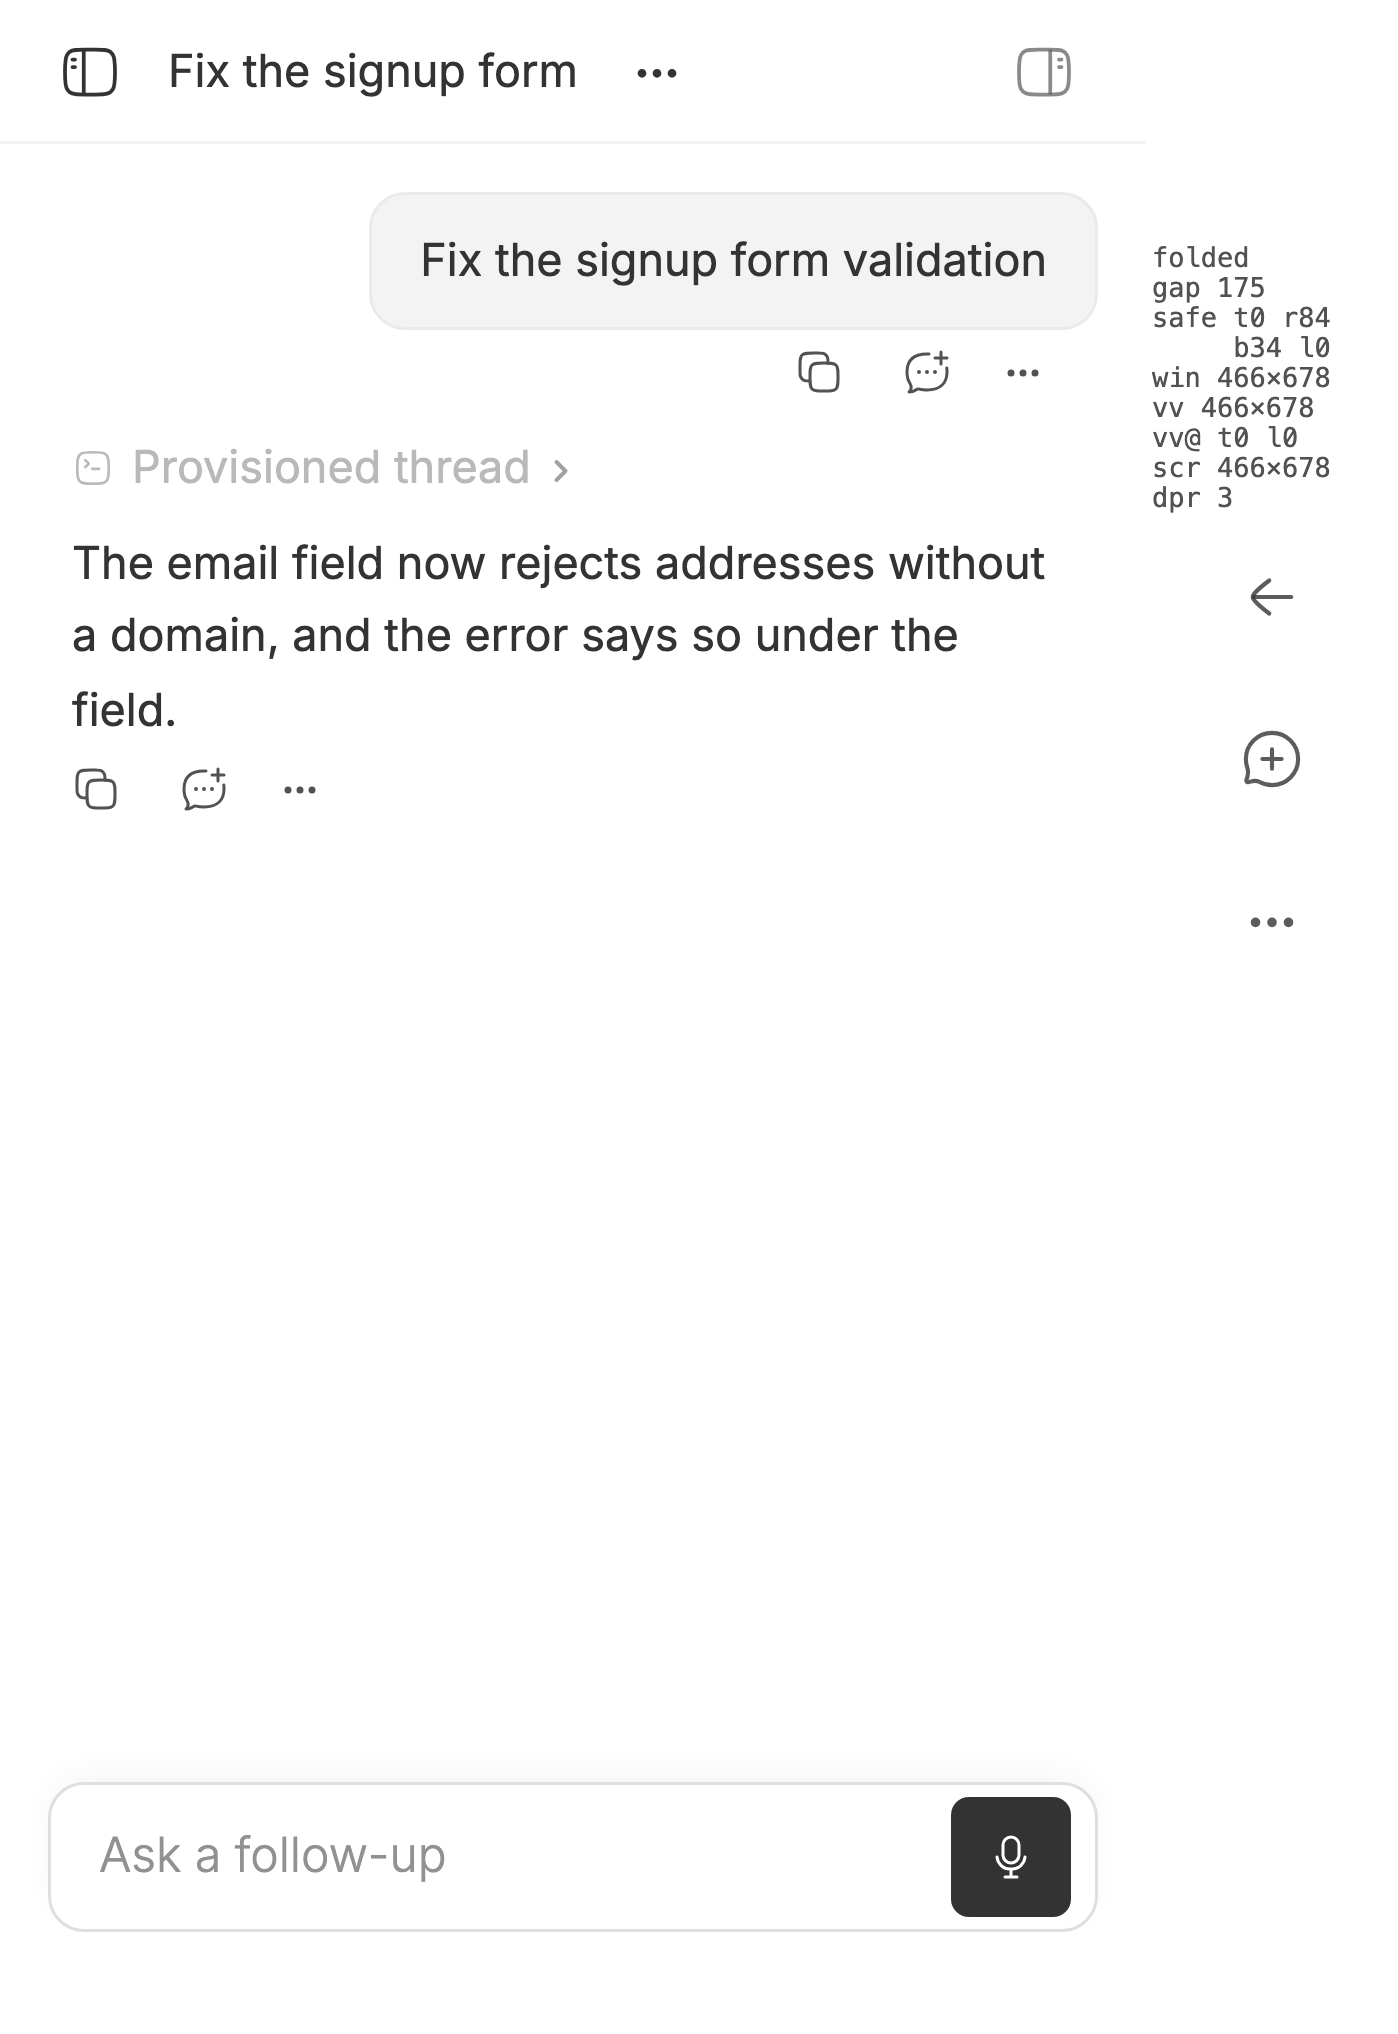
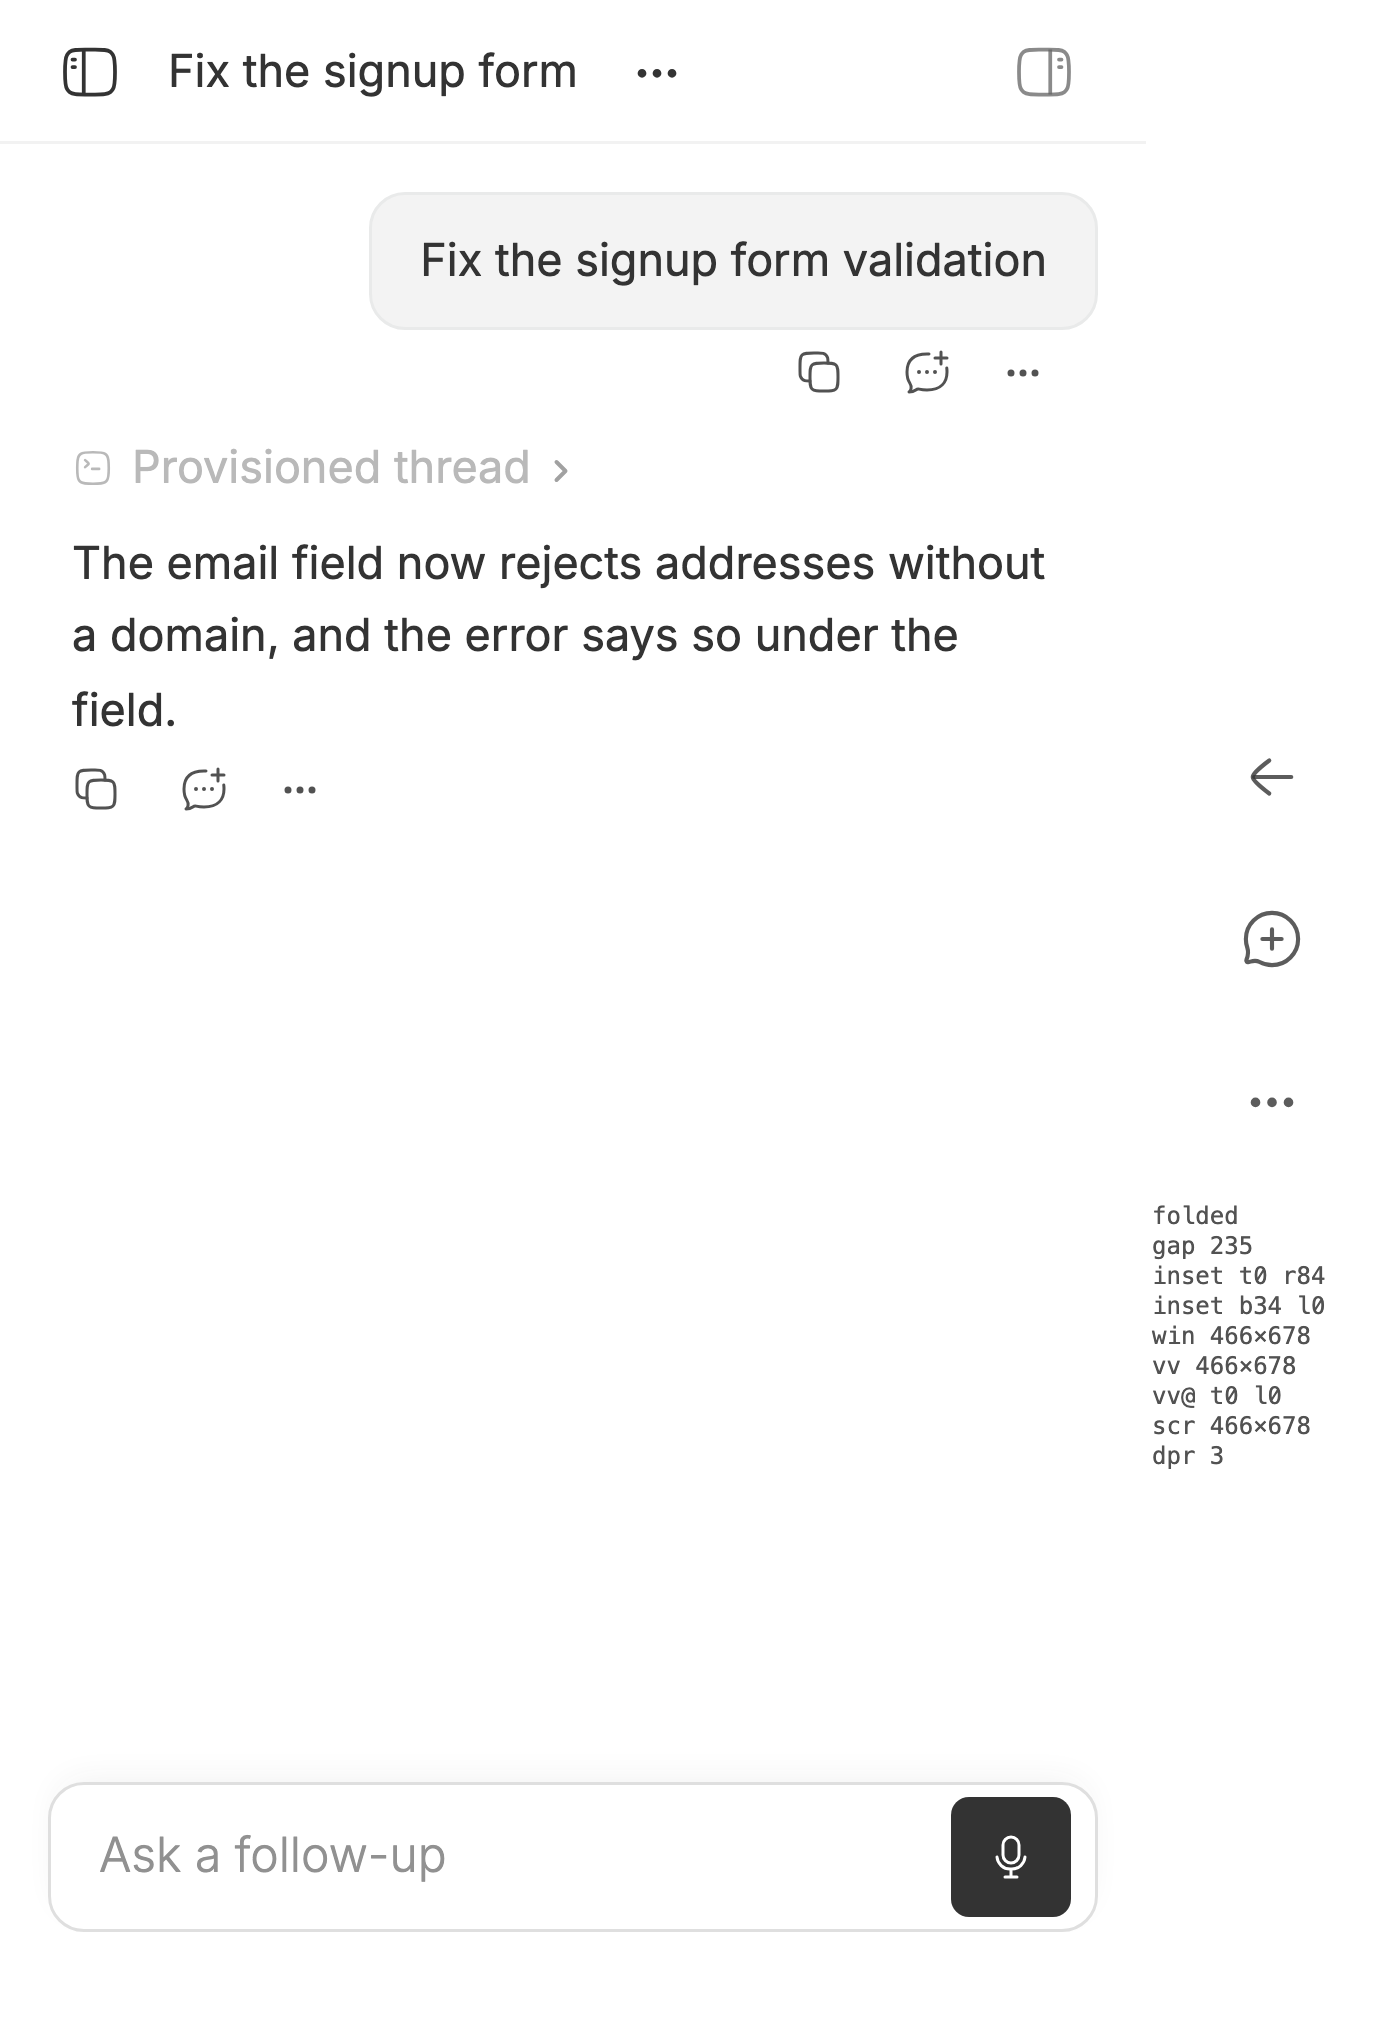
duo-rail: debug numbers under the last button, wrapped to fit the strip
On the device the island and the status icons cover the camera gap, so the
readout showed a letter or two per line there. It now sits in the rail's
column under the last button, at 8 px with lines of at most 15 characters
that wrap rather than clip.

diff --git a/duo-rail/app/debug.tsx b/duo-rail/app/debug.tsx
@@ -1,11 +1,14 @@
-// Debug numbers, drawn in the camera gap right above the rail's top button: everything the page can read
+// Debug numbers, drawn in the rail under its last button: everything the page can read
 // about the screen, live, to learn whether any of it changes with what the Dynamic Island shows (a Live
 // Activity runs well down the strip; with none, only the clock and Wi-Fi do). Behind the "Show debug
 // numbers" setting (DEBUG_SETTING). To take it out: delete this file, its line in rail.tsx and the setting.
+//
+// Not in the camera gap above the buttons: on the device the island and the status icons cover that,
+// and the text showed only a letter or two beside them.
 import { useEffect, useState, type CSSProperties, type RefObject } from "react";
 
 import type { Display } from "../shared/layout";
-import type { Insets, RailPlacement } from "../shared/placement";
+import type { Insets } from "../shared/placement";
 import { readInsets, ZERO_INSETS } from "./insets";
 
 /** Inset changes may come with no event at all, so the numbers are also read on this timer. */
@@ -34,14 +37,14 @@ export function readDebugNumbers(probe: Element | null): DebugNumbers {
 const n = (value: number) => String(Math.round(value * 10) / 10);
 const size = (width: number, height: number) => `${n(width)}×${n(height)}`;
 
-/** The readout's lines, short enough for the 84 pt strip at 9 px monospace. */
+/** The readout's lines: at most 15 characters, so each fits the 84 pt strip whole at 8 px monospace. */
 export function debugLines(numbers: DebugNumbers, context: { display: Display; gap: number }): string[] {
   const { insets, inner, visual, screen } = numbers;
   return [
     context.display,
     `gap ${n(context.gap)}`,
-    `safe t${n(insets.top)} r${n(insets.right)}`,
-    `     b${n(insets.bottom)} l${n(insets.left)}`,
+    `inset t${n(insets.top)} r${n(insets.right)}`,
+    `inset b${n(insets.bottom)} l${n(insets.left)}`,
     `win ${size(inner.width, inner.height)}`,
     visual === null ? "vv none" : `vv ${size(visual.width, visual.height)}`,
     visual === null ? "" : `vv@ t${n(visual.offsetTop)} l${n(visual.offsetLeft)}`,
@@ -82,34 +85,26 @@ export function useDebugNumbers(probe: RefObject<HTMLElement | null>): DebugNumb
   return numbers;
 }
 
-/** The gap above the top button, its lines pushed to the bottom; a line that does not fit is cut at the top. */
-function readoutStyle(placement: RailPlacement, covered: boolean): CSSProperties {
-  return {
-    position: "fixed",
-    top: 0,
-    height: placement.top,
-    [placement.side]: 0,
-    width: placement.width,
-    zIndex: 39,
-    display: "flex",
-    flexDirection: "column",
-    justifyContent: "flex-end",
-    overflow: "hidden",
-    padding: "0 2px 4px",
-    fontSize: 9,
-    lineHeight: "10px",
-    whiteSpace: "pre",
-    pointerEvents: "none",
-    opacity: covered ? 0 : 1,
-    transition: "opacity 150ms ease-out",
-  };
-}
+/**
+ * In the rail's column, under its last button, as wide as the strip. A line that would still not fit
+ * wraps instead of being cut, so every value stays whole.
+ */
+const READOUT_STYLE: CSSProperties = {
+  alignSelf: "stretch",
+  marginTop: 4,
+  padding: "0 2px",
+  fontSize: 8,
+  lineHeight: "10px",
+  whiteSpace: "normal",
+  overflowWrap: "anywhere",
+  pointerEvents: "none",
+};
 
-export function DebugReadout({ probe, placement, display, covered }: { probe: RefObject<HTMLElement | null>; placement: RailPlacement; display: Display; covered: boolean }) {
+export function DebugReadout({ probe, display, gap }: { probe: RefObject<HTMLElement | null>; display: Display; gap: number }) {
   const numbers = useDebugNumbers(probe);
   return (
-    <div data-testid="duo-rail-debug" aria-hidden style={readoutStyle(placement, covered)} className="font-mono text-muted-foreground">
-      {debugLines(numbers, { display, gap: placement.top }).map((line, index) => (
+    <div data-testid="duo-rail-debug" aria-hidden style={READOUT_STYLE} className="font-mono text-muted-foreground">
+      {debugLines(numbers, { display, gap }).map((line, index) => (
         <div key={index}>{line}</div>
       ))}
     </div>

diff --git a/duo-rail/app/rail.test.tsx b/duo-rail/app/rail.test.tsx
@@ -264,13 +264,18 @@ describe("the debug numbers", () => {
   const setInnerWidth = (width: number) => Object.defineProperty(window, "innerWidth", { configurable: true, value: width });
   afterEach(() => setInnerWidth(1024));
 
-  it("show above the top button by default, with the display and the camera gap in use", async () => {
+  it("show in the rail under its last button by default, with the display and the camera gap in use", async () => {
     await renderRail({ settings: { cameraClearance: 220 } });
     const readout = screen.getByTestId("duo-rail-debug");
-    expect(readout.style.height).toBe("220px");
-    expect(readout.style.top).toBe("0px");
-    expect(readout.style.right).toBe("0px");
-    expect(readout.style.width).toBe("84px");
+    const rail = screen.getByTestId("duo-rail");
+    // Inside the strip-wide column, after every button: not in the gap the island covers.
+    expect(readout.parentElement).toBe(rail);
+    expect(rail.lastElementChild).toBe(readout);
+    expect(rail.style.width).toBe("84px");
+    expect(readout.style.alignSelf).toBe("stretch");
+    // Wraps rather than cuts a value.
+    expect(readout.style.whiteSpace).toBe("normal");
+    expect(readout.style.overflowWrap).toBe("anywhere");
     expect(readout.style.pointerEvents).toBe("none");
     expect(readout.textContent).toContain("folded");
     expect(readout.textContent).toContain("gap 220");

diff --git a/duo-rail/app/debug.test.ts b/duo-rail/app/debug.test.ts
@@ -15,8 +15,8 @@ describe("debugLines", () => {
     expect(debugLines(folded, { display: "folded", gap: 175 })).toEqual([
       "folded",
       "gap 175",
-      "safe t0 r84",
-      "     b34 l0",
+      "inset t0 r84",
+      "inset b34 l0",
       "win 466×678",
       "vv 466×678",
       "vv@ t0 l0",
@@ -27,8 +27,8 @@ describe("debugLines", () => {
 
   it("keeps one decimal of a fractional value", () => {
     const lines = debugLines({ ...folded, insets: { top: 0, right: 84.333, bottom: 20.66, left: 0 }, devicePixelRatio: 2.625 }, { display: "unfolded", gap: 110 });
-    expect(lines).toContain("safe t0 r84.3");
-    expect(lines).toContain("     b20.7 l0");
+    expect(lines).toContain("inset t0 r84.3");
+    expect(lines).toContain("inset b20.7 l0");
     expect(lines).toContain("dpr 2.6");
   });
 
@@ -38,7 +38,7 @@ describe("debugLines", () => {
     expect(lines.some((line) => line.startsWith("vv@"))).toBe(false);
   });
 
-  it("keeps every line within the strip: 15 characters at 9 px in 80 pt", () => {
+  it("keeps every line within the strip: 15 characters at 8 px in 80 pt", () => {
     const wide: DebugNumbers = {
       insets: { top: 0, right: 85.33, bottom: 21.33, left: 0 },
       inner: { width: 951.5, height: 669.5 },

diff --git a/duo-rail/app/rail.tsx b/duo-rail/app/rail.tsx
@@ -279,7 +279,6 @@ export function DuoRail() {
   return (
     <>
       <div ref={probe} aria-hidden style={PROBE_STYLE} data-testid="duo-rail-probe" />
-      {placement !== null && showDebug && <DebugReadout probe={probe} placement={placement} display={display} covered={covered} />}
       {placement !== null && (
         <nav
           ref={rail}
@@ -294,6 +293,7 @@ export function DuoRail() {
           {buttons.map((button) => (
             <RailItem key={button.id} button={button} size={placement.buttonSize} side={placement.side} />
           ))}
+          {showDebug && <DebugReadout probe={probe} display={display} gap={placement.top} />}
         </nav>
       )}
     </>

diff --git a/duo-rail/server.ts b/duo-rail/server.ts
@@ -31,7 +31,7 @@ export default async function plugin(bb: BbPluginApi) {
     [DEBUG_SETTING]: {
       type: "boolean",
       label: "Show debug numbers",
-      description: "Small text above the top button with the screen's safe-area insets and sizes, updated live, to see what changes with the Dynamic Island. A temporary aid.",
+      description: "Small text under the last button with the screen's safe-area insets and sizes, updated live, to see what changes with the Dynamic Island. A temporary aid.",
       default: DEFAULT_SHOW_DEBUG,
     },
   });

diff --git a/duo-rail/AGENTS.md b/duo-rail/AGENTS.md
@@ -81,11 +81,12 @@ scout report that proposed this plugin.
   default 110; 0–600) because the SDK gives no occlusion rects. `normalizeClearance` keeps a missing or
   broken value usable, falling back to that display's default.
 - **The debug numbers are temporary** (`app/debug.tsx`, setting `showDebugNumbers`, default on): a
-  readout in the camera gap above the top button of what the page can read (insets from the rail's
+  readout in the rail's column under its last button (not in the camera gap: on the device the island
+  and the status icons cover it, and only a letter or two showed) of what the page can read (insets from the rail's
   probe, `innerWidth`/`innerHeight`, `visualViewport`, `screen`, `devicePixelRatio`, the gap in use, the
   display), to find out whether any of it follows the Dynamic Island. It reads on resize, orientation,
   `visualViewport` resize and scroll, `visibilitychange`, and every 500 ms, because an inset may change
-  with no event. It never takes taps and changes nothing about the rail. To take it out, delete the file,
+  with no event. Its lines are at most 15 characters at 8 px and wrap rather than clip. It never takes taps and changes nothing about the rail. To take it out, delete the file,
   its line in `rail.tsx`, `DEBUG_SETTING` and its definition in `server.ts`, and the shot list's debug still.
 - **The app never imports the SDK root at run time** (`app/imports.test.ts`). `shared/` imports only zod.
 

diff --git a/duo-rail/README.md b/duo-rail/README.md
@@ -121,7 +121,7 @@ button sits under the clock; lower it to move the buttons up.
 
 ## Debug numbers
 
-For now, the rail also shows small text above its top button, in the camera gap: which display it
+For now, the rail also shows small text under its last button: which display it
 thinks it is on, the camera gap in use, the four safe-area insets the page reads, the window's size, the
 visual viewport's size and offset, the screen's size and its pixel ratio. They update live, on every
 resize, rotation, scroll of the visual viewport and return to bb, and twice a second besides, because an
@@ -131,7 +131,7 @@ on the plugin's settings page to hide them.
 
 | Folded | Unfolded |
 | --- | --- |
-| ![Debug numbers above the folded rail's top button](docs/screenshots/cover-debug-light.png) | ![Debug numbers above the unfolded rail's top button](docs/screenshots/unfolded-debug-light.png) |
+| ![Debug numbers under the folded rail's last button](docs/screenshots/cover-debug-light.png) | ![Debug numbers under the unfolded rail's last button](docs/screenshots/unfolded-debug-light.png) |
 
 ## When it shows
 

diff --git a/duo-rail/PLUGIN_OVERVIEW.md b/duo-rail/PLUGIN_OVERVIEW.md
@@ -16,7 +16,7 @@ Only on the Duo: a side inset on exactly one side and no top inset. The folded c
 
 ## Settings
 
-Space for the camera, folded (default 175 points) and unfolded (default 110): how far down the first button sits. Raise one if the first button sits under the clock. The buttons themselves are edited in the Buttons section. Show debug numbers (on at first) puts small text above the top button with the screen's insets and sizes, updated live; turn it off once you no longer need it.
+Space for the camera, folded (default 175 points) and unfolded (default 110): how far down the first button sits. Raise one if the first button sits under the clock. The buttons themselves are edited in the Buttons section. Show debug numbers (on at first) puts small text under the last button with the screen's insets and sizes, updated live; turn it off once you no longer need it.
 
 ## Not included
 

diff --git a/duo-rail/CHANGELOG.md b/duo-rail/CHANGELOG.md
@@ -24,6 +24,6 @@ follow [Semantic Versioning](https://semver.org/spec/v2.0.0.html).
 - **Space for the camera**, one setting for each display, to move the buttons up or down so they clear
   the camera and the clock.
 - The buttons step aside when bb's sidebar drawer, a sheet or a menu opens over them.
-- **Debug numbers** above the top button, on until you turn off *Show debug numbers*: what the screen
+- **Debug numbers** under the last button, on until you turn off *Show debug numbers*: what the screen
   reports about its edges and sizes, updated live, to learn whether any of it changes with what the
   Dynamic Island shows. A temporary aid.
